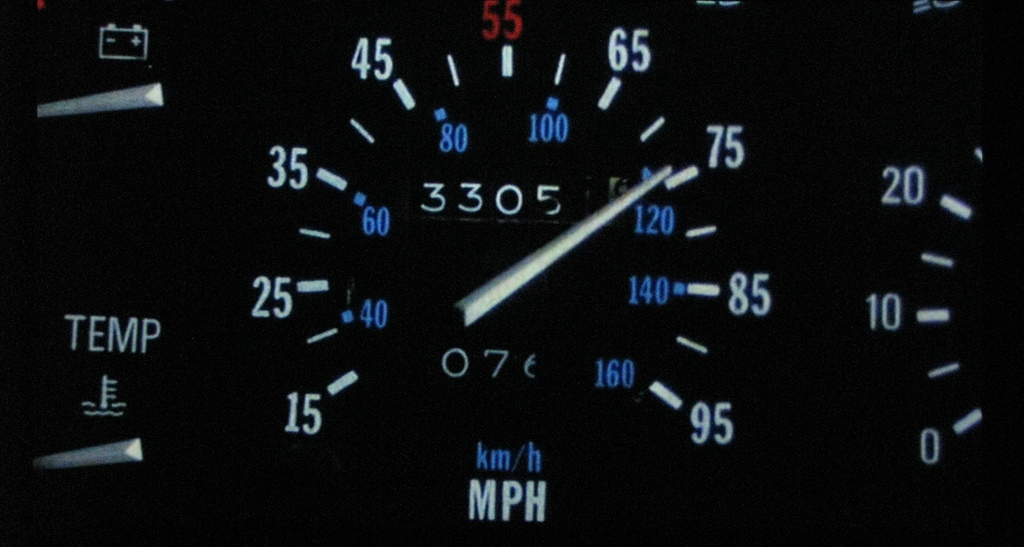
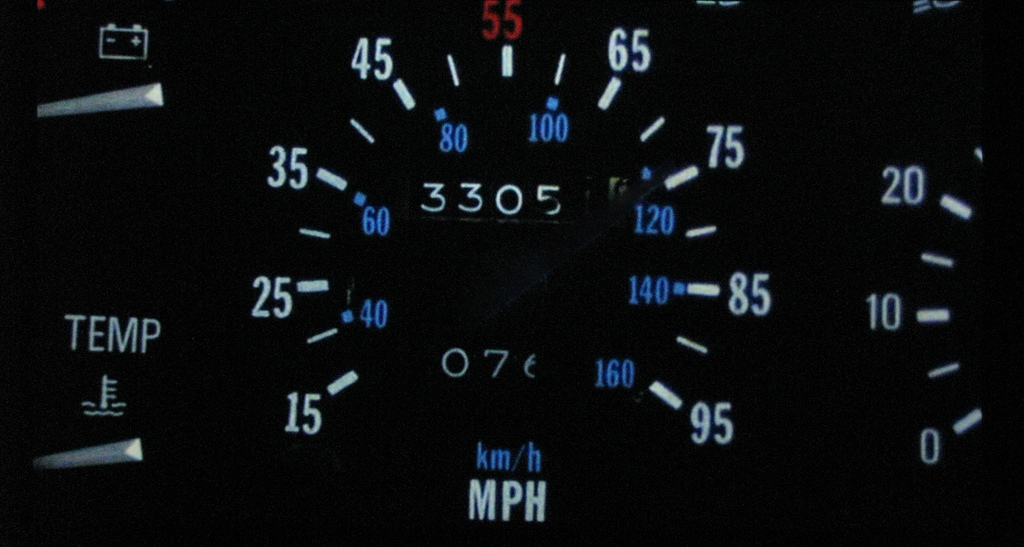
speedometer effects

Changed region(s): [[0.4375, 0.3108, 0.6562, 0.5905]]

diff --git a/assets/javascript/app.js b/assets/javascript/app.js
@@ -12,33 +12,103 @@ let timedOutAnswers = 0;
 
 let questionBank = [
     {
-        question: "What is your name?",
+        question: "What is the name of Doc Brown's dog?",
         answers: 
             [
-                "*Todd Bartelt",
-                "Jim Carrey",
-                "Frank Miller",
-                "Bob Hoskins"
+                "*Einstein",
+                "Marley",
+                "Wilby",
+                "Colonel"
             ]
     }, 
     {
-        question: "What is your age?",
+        question: "What date in the past does Marty accidentally travel to?",
         answers: 
             [
-                "*44",
-                "55",
-                "33",
-                "53"
+                "*November 12, 1955",
+                "October 26, 1955",
+                "December 12, 1926",
+                "October 26, 1975"
             ]
     },
     {
-        question: "What is your dog's name?",
+        question: "What nationality are the terrorists from whom Doc Brown stole the plutonium needed to power the time machine?",
         answers: 
             [
-                "*Tango",
-                "Rango",
-                "Cash",
-                "Johnny"
+                "*Libyan",
+                "Lithuanian",
+                "Syrian",
+                "South African"
+            ]
+    },
+    {
+        question: "What is the name of the uncle who Marty finds is still a baby in a playpen back in 1955?",
+        answers: 
+            [
+                "*Joey",
+                "Jimmy",
+                "Jerry",
+                "Jack"
+            ]
+    },
+    {
+        question: "Who directed Back to the Future?",
+        answers: 
+            [
+                "*Robert Zemekis",
+                "Steven Spielberg",
+                "Christopher Lloyd",
+                "Calvin Klein"
+            ]
+    },
+    {
+        question: "What speed does the DeLorean need to achieve to travel through time?",
+        answers: 
+            [
+                "*88 miles per hour",
+                "77 miles per hour",
+                "60 miles per hour",
+                "1.21 miles per hour"
+            ]
+    },
+    {
+        question: "What is Marty McFly's dream set of wheels?",
+        answers: 
+            [
+                "*Toyota SR5 Xtra Cab",
+                "Chevy Corvette",
+                "Chevy Camaro IROC-Z",
+                "DeLorean DMC-12"
+            ]
+    },
+    {
+        question: "What are the names of Marty's parents?",
+        answers: 
+            [
+                "*Lorraine and George",
+                "Linda and John",
+                "Gracie and George",
+                "Yoko and John"
+            ]
+    },
+    {
+        question: "How did Doc Brown hit his head the day he came up with the idea of the flux capacitor?",
+        answers: 
+            [
+                "*He was standing on a toilet to hang a clock, and he fell.",
+                "He was was working on his car when the hood fell on him.",
+                "He was climbing a tree to watch the girl next door, but he fell and was hit by a car.",
+                "He fell off the roof."
+            ]
+    },
+    {
+        question: "What Chuck Berry song did Marty rock out to at the Enchantment Under the Sea dance?",
+        answers: 
+            [
+                "*Johnny B. Goode",
+                "Maybellene",
+                "Roll Over Beethoven",
+                "Sweet Little Sixteen"
             ]
     }
 ];
@@ -47,6 +117,8 @@ function initGame() {
     $("#answers-area").hide();
     $("#start").addClass("clickable");
     $("#start").show();
+    $("#needle").hide();
+    //$("header").hide();
 }
 
 function startGame() {
@@ -61,7 +133,12 @@ function startGame() {
 }
 
 function presentQuestion() {
-    //console.log("Q: " + q.question);
+    //console.log("Q: " + q.question);  
+
+    //hide needle and show logo
+    $("#needle").hide();
+    $("header").children().show();
+    
     console.log("presentQuestion");
     secondsLeft = questionTime;
     let order = randomOrder();
@@ -130,6 +207,12 @@ function showAnswer() {
     // disable answer buttons
     $(".answer").off("click");
     $(".answer").removeClass("clickable"); // disable hover effects
+
+    //show speedometer needle
+    $("#needle").removeClass();
+    $("#needle").addClass("accelerate" + correctAnswers);
+    $("header").children().hide();
+    $("#needle").show();
 
     if (questionIndex === questionBank.length-1) {
         setTimeout(showTotals, answerTime*1000);

diff --git a/assets/css/style.css b/assets/css/style.css
@@ -2,13 +2,17 @@ body {
     background-color: black;
     background-image: url("../images/Speedometer.jpg");
     background-repeat: no-repeat;
-    background-position: center 100px;
-
+    background-position: center top;
     color: white;
-    width: 720px;   
-    margin-left: auto;  
+    width: 720px;       
+    margin-left: auto;      
     margin-right: auto; 
     font-family: "Century Gothic", sans-serif       
+}
+
+header {
+    position: relative;
+    min-height: 400px;
 }
 
 #logo {
@@ -19,7 +23,11 @@ h1 {
     font-size: 40px;        
     text-align: right;
     text-emphasis: bold;
-    top: 100px;
+    top: 100px; 
+}
+
+#game-area {
+    background-color:rgb(0,0,0,0.8);
 }
 
 #communication,
@@ -41,17 +49,125 @@ h1 {
     text-align: center;
     padding: 10px;  
     font-size: 24px;
-    background-color: black;    
 }
 
 #start:hover,
 .clickable:hover {
-    background-color: lightblue;
-    background-color: orange;
+    
+    background-image:linear-gradient(red, yellow);
     color: black;
     cursor: pointer;
+    /*filter: blur(8px);
+    -webkit-filter: blur(8px);*/
 }   
 
 strong {
     text-transform: uppercase;
 }
+
+
+
+#needle {
+    position: relative;
+    right: -308px;
+    bottom: -275px;
+    width: 0px;
+    height: 0px;
+    border-right: 260px solid transparent;
+    border-top: 8px solid transparent;
+    border-bottom: 16px solid gray; 
+    transform-origin:    25px 24px;
+    /*animation: accel2 3s ease-in-out 1 forwards;*/
+    filter: blur(2px);
+    -webkit-filter: blur(2px)
+}
+
+#needle:after {
+    content: "";
+    position: absolute; 
+    left: 0;
+    top: 0;
+    width: 0;
+    height: 0;
+    border-left: 16px solid #1C2833;
+    border-top: 16px solid transparent;
+    border-bottom: 16px solid transparent;
+}
+#needle:before {
+    content: "";
+    position: absolute; 
+    right: -260px;
+    bottom: -40px;
+    width: 0px;
+    height: 0px;
+    border-right: 260px solid transparent;
+    border-top: 16px solid ghostwhite;
+    border-bottom: 8px solid transparent;
+}
+
+.accelerate1 { animation: accel1 3s ease-in-out 1 forwards; }
+.accelerate2 { animation: accel2 3s ease-in-out 1 forwards; }
+.accelerate3 { animation: accel3 3s ease-in-out 1 forwards; }
+.accelerate4 { animation: accel4 3s ease-in-out 1 forwards; }
+.accelerate5 { animation: accel5 3s ease-in-out 1 forwards; }
+.accelerate6 { animation: accel6 3s ease-in-out 1 forwards; }
+.accelerate7 { animation: accel7 3s ease-in-out 1 forwards; }
+.accelerate8 { animation: accel8 3s ease-in-out 1 forwards; }
+
+@keyframes accel1 {
+    0%  {   transform: rotate(-240deg);   }
+    60% {   transform: rotate(-200deg);   }
+    90% {   transform: rotate(-210deg);   }
+    100%{   transform: rotate(-210deg);   }
+}
+
+@keyframes accel2 {
+    0%  {   transform: rotate(-210deg);   }
+    60% {   transform: rotate(-170deg);   }
+    90% {   transform: rotate(-180deg);   }
+    100%{   transform: rotate(-180deg);   }
+}               
+  
+@keyframes accel3 {
+    0%  {   transform: rotate(-180deg);   }
+    60% {   transform: rotate(-140deg);   }
+    90% {   transform: rotate(-150deg);   }
+    100%{   transform: rotate(-150deg);   }
+} 
+
+@keyframes accel4 {
+    0%  {   transform: rotate(-150deg);   }
+    60% {   transform: rotate(-110deg);   }
+    90% {   transform: rotate(-120deg);   }
+    100%{   transform: rotate(-120deg);   }
+} 
+
+@keyframes accel5 {
+    0%  {   transform: rotate(-120deg);   }
+    60% {   transform: rotate(-80deg);   }
+    90% {   transform: rotate(-90deg);   }
+    100%{   transform: rotate(-90deg);   }
+} 
+
+@keyframes accel6 {
+    0%  {   transform: rotate(-90deg);   }
+    60% {   transform: rotate(-50deg);   }
+    90% {   transform: rotate(-60deg);   }
+    100%{   transform: rotate(-60deg);   }
+} 
+  
+@keyframes accel7 {
+    0%  {   transform: rotate(-60deg);   }
+    60% {   transform: rotate(-20deg);   }
+    90% {   transform: rotate(-30deg);   }
+    100%{   transform: rotate(-30deg);   }
+} 
+
+@keyframes accel8 {
+    0%  {   transform: rotate(-30deg);   }
+    30% {   transform: rotate(0deg);     }
+    60% {   transform: rotate(-10deg);   }
+    100%{   transform: rotate(10deg);    }
+} 
+
+

diff --git a/index.html b/index.html
@@ -13,16 +13,21 @@
         crossorigin="anonymous"></script>
 </head>
 <body>
-    <img id="logo" src="assets/images/BTTF-Logo.png">
-    <h1>Trivia Challenge</h1>
-    <div id="communication"></div>  
-    <div id="start">Start</div>
-    <div id="question"></div>
-    <div id="answers-area">
-        <div class="answer" data-correct="false"></div>
-        <div class="answer" data-correct="false"></div>
-        <div class="answer" data-correct="false"></div>
-        <div class="answer" data-correct="false"></div>
+    <div id="needle"></div> 
+    <header>
+        <img id="logo" src="assets/images/BTTF-Logo.png">
+        <h1>Trivia Challenge</h1>
+    </header>  
+    <div id="game-area">
+        <div id="communication"></div>  
+        <div id="start"><p>Start</p></div>
+        <div id="question"></div>   
+        <div id="answers-area">
+            <div class="answer" data-correct="false"></div>
+            <div class="answer" data-correct="false"></div>
+            <div class="answer" data-correct="false"></div>
+            <div class="answer" data-correct="false"></div>
+        </div>
     </div>
     <script src="assets/javascript/app.js"></script>
 </body>
